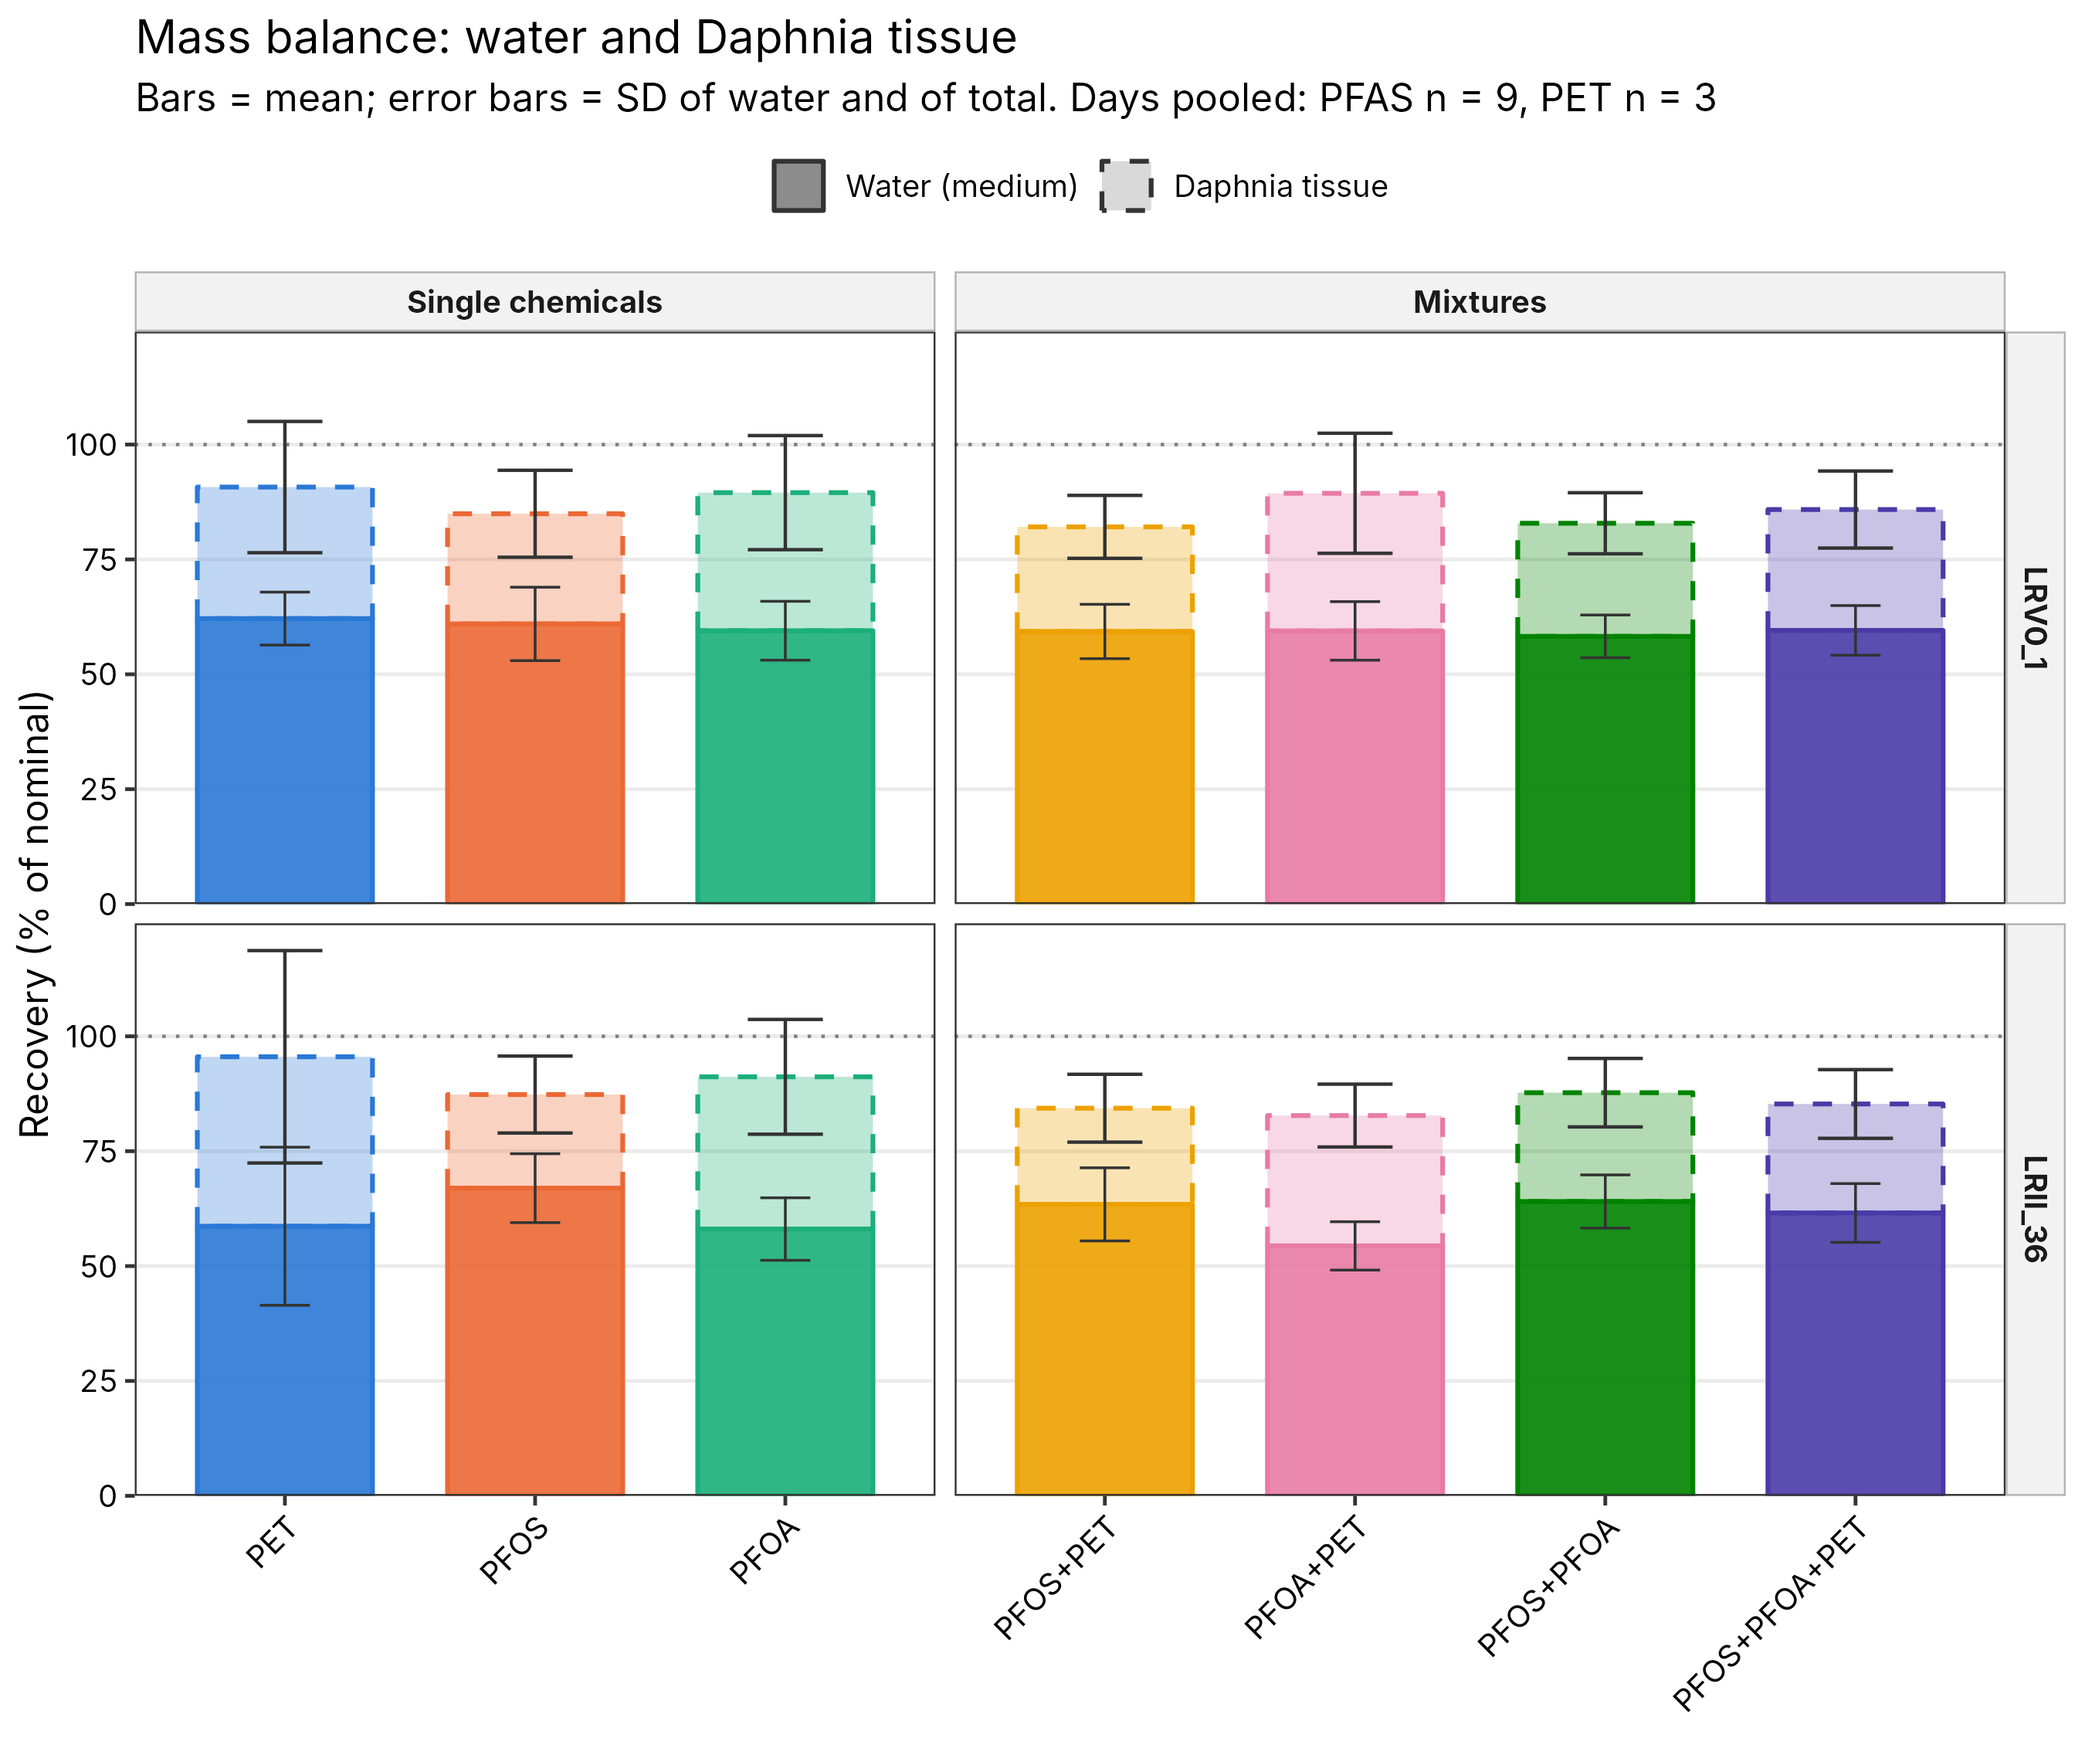
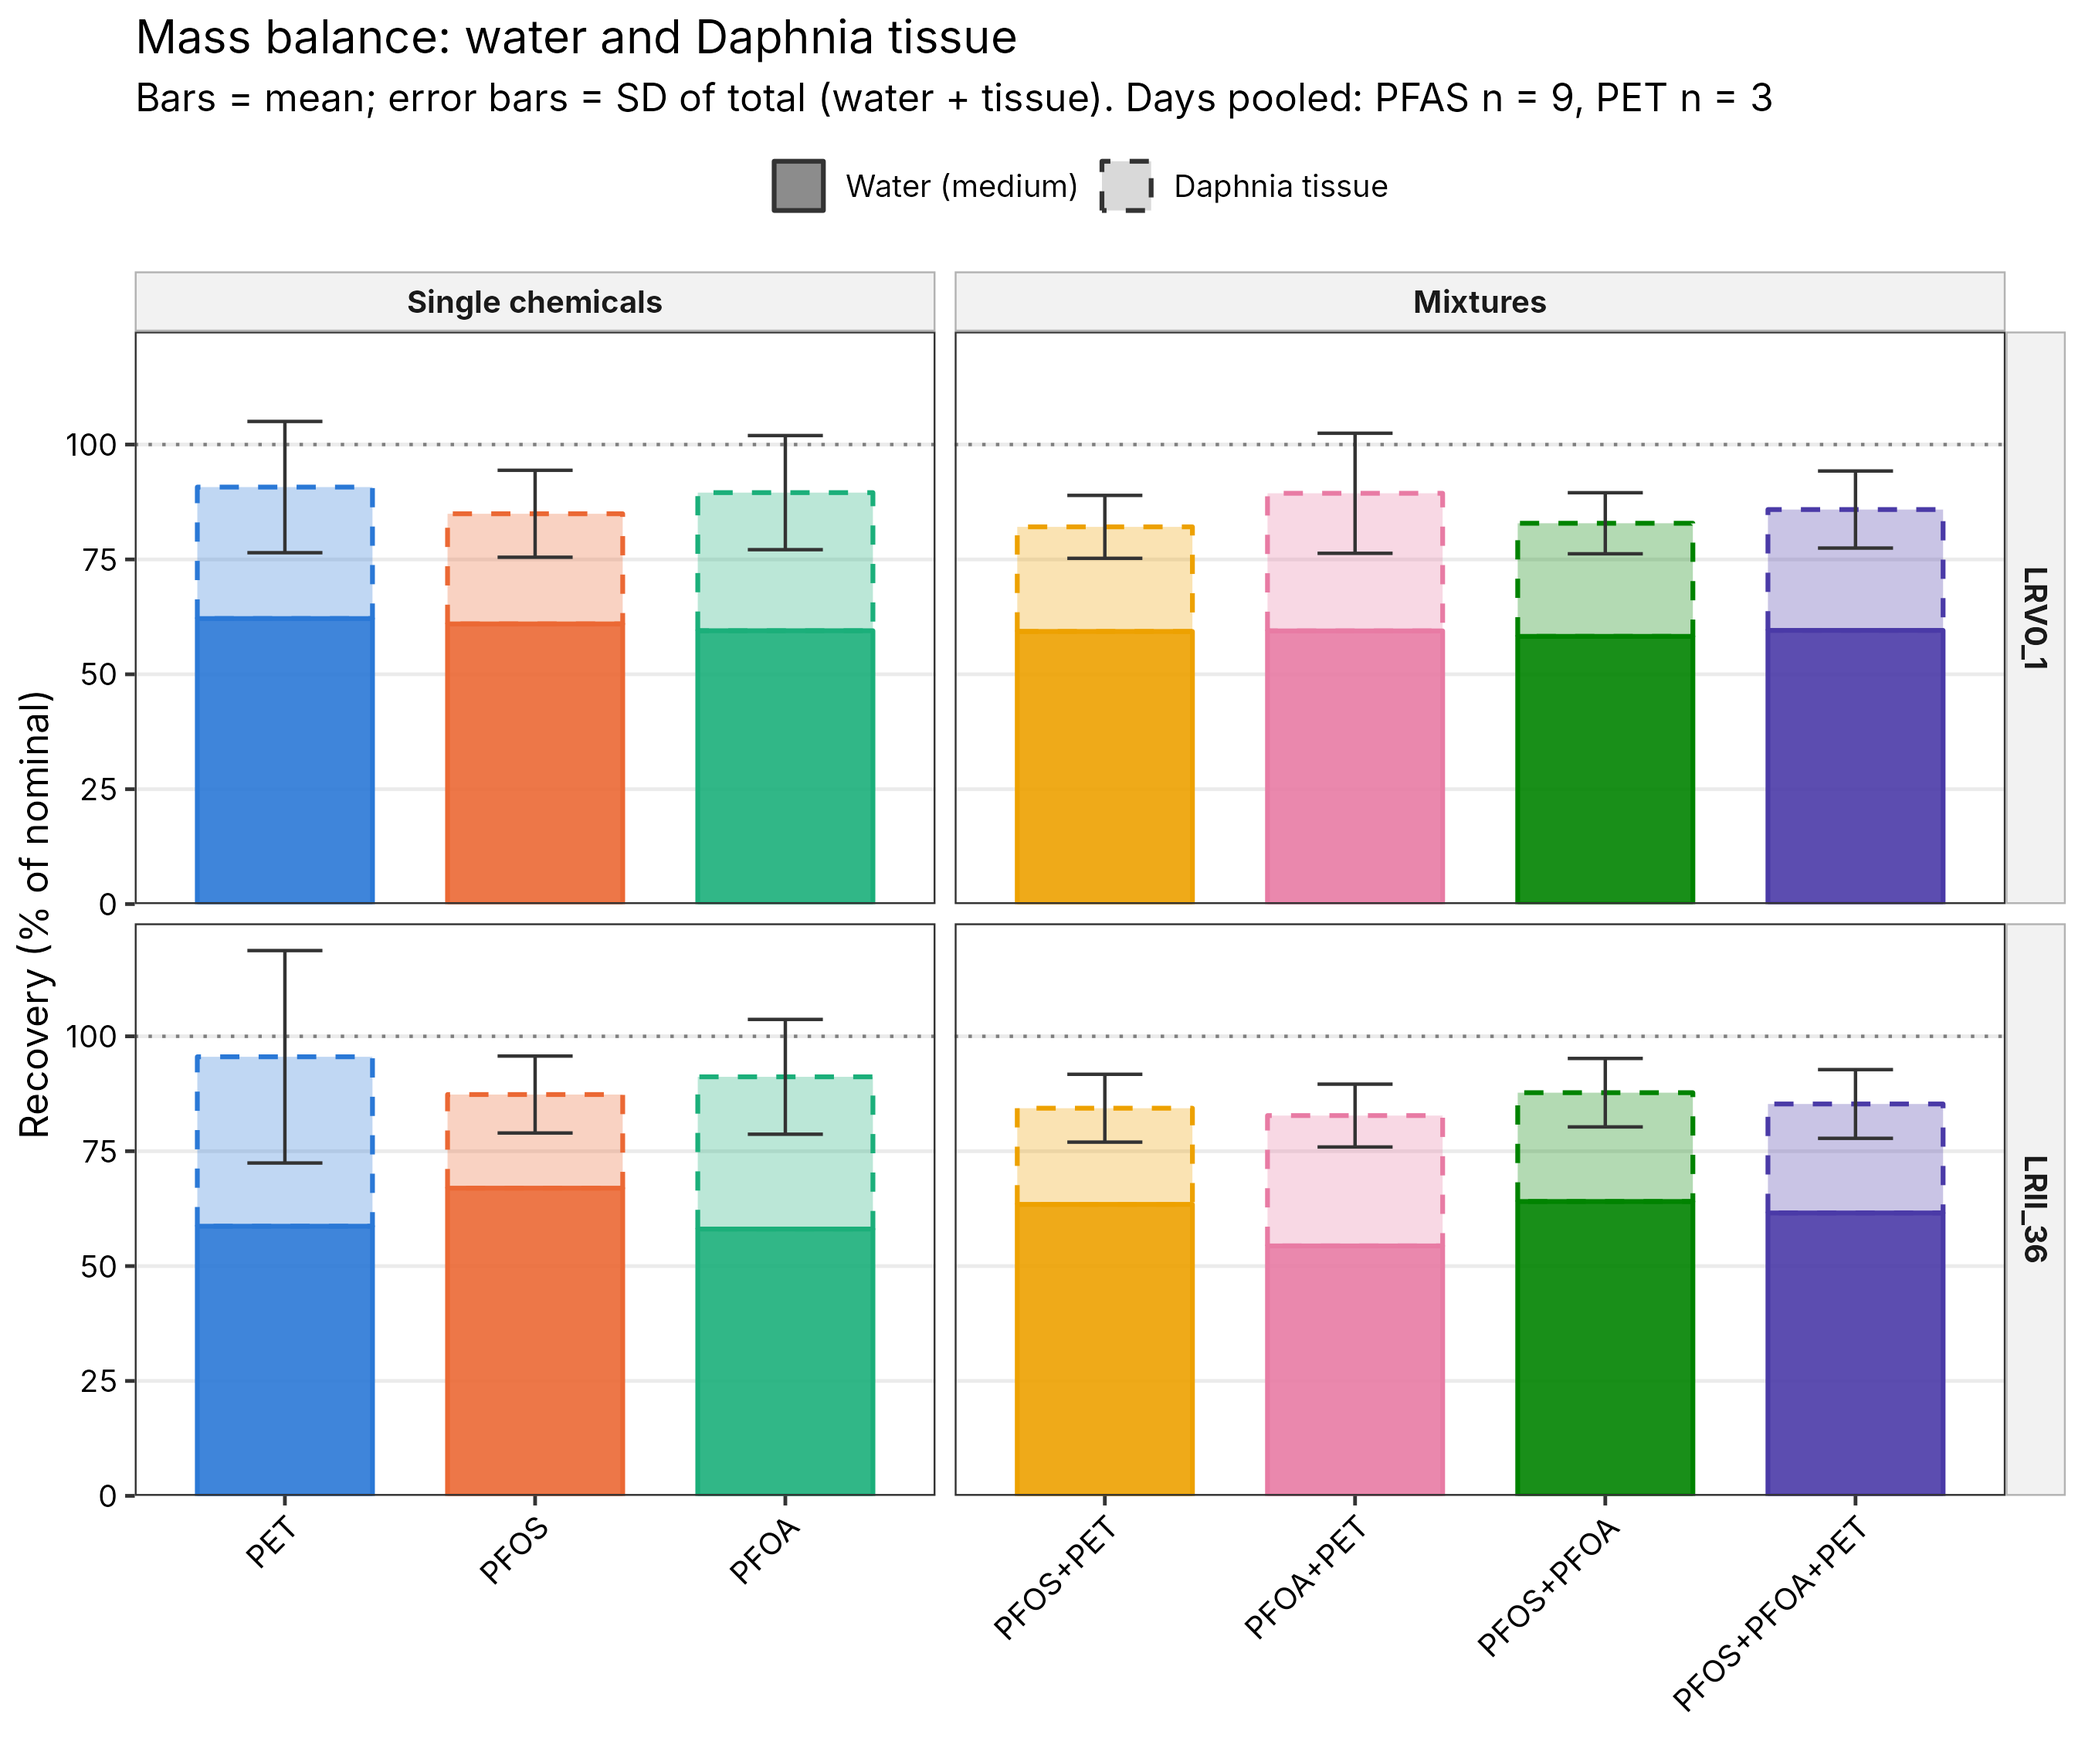
Show only total SD error bars on stacked mass balance plots
Claude-Session: https://claude.ai/code/session_01Q4ez1oHjNgnYUvR6AcaCKb

Changed region(s): [[0.3422, 0.0311, 0.84, 0.0622]]

diff --git a/mass_balance/README.md b/mass_balance/README.md
@@ -14,7 +14,7 @@ Rscript mass_balance/mass_balance_plots.R
 | `Fig_PFAS_mass_balance_boxplot` | PFOS, PFOA and PFOS+PFOA recovery in medium, Daphnia tissue and total, with and without PET, per genotype (3 replicates x 3 days) |
 | `Fig_mass_balance_water_tissue_combined` | Water (dashed) and Daphnia tissue (solid) recovery in one panel per genotype, one colour per compound (PET, PFOS, PFOA and their combinations) |
 | `Fig_mass_balance_water_tissue_by_day` | Same as the combined plot, split by day (3 replicates per PFAS box; PET is a single value per day) |
-| `Fig_mass_balance_stacked_barplot` | Water (solid) and Daphnia tissue (dashed, stacked on top) in the same bar; panels for single chemicals vs mixtures, rows LRV0_1 and LRII_36; mean with SD of water and of total, days pooled (PFAS n = 9, PET n = 3) |
+| `Fig_mass_balance_stacked_barplot` | Water (solid) and Daphnia tissue (dashed, stacked on top) in the same bar; panels for single chemicals vs mixtures, rows LRV0_1 and LRII_36; mean with SD of the total (water + tissue) at the top of the bar, days pooled (PFAS n = 9, PET n = 3) |
 | `Fig_mass_balance_stacked_barplot_by_day` | Same stacked bar plot split by day (PFAS n = 3; PET n = 1, no error bar) |
 | `Fig_MP_mass_balance_boxplot` | PET recovery in medium, tissue and total, per genotype (one value per treatment and day) |
 | `Fig_removal_efficiency_boxplot` | Removal from water of PFOS, diclofenac, atrazine and arsenic per genotype, recomputed from Table S2 raw |
